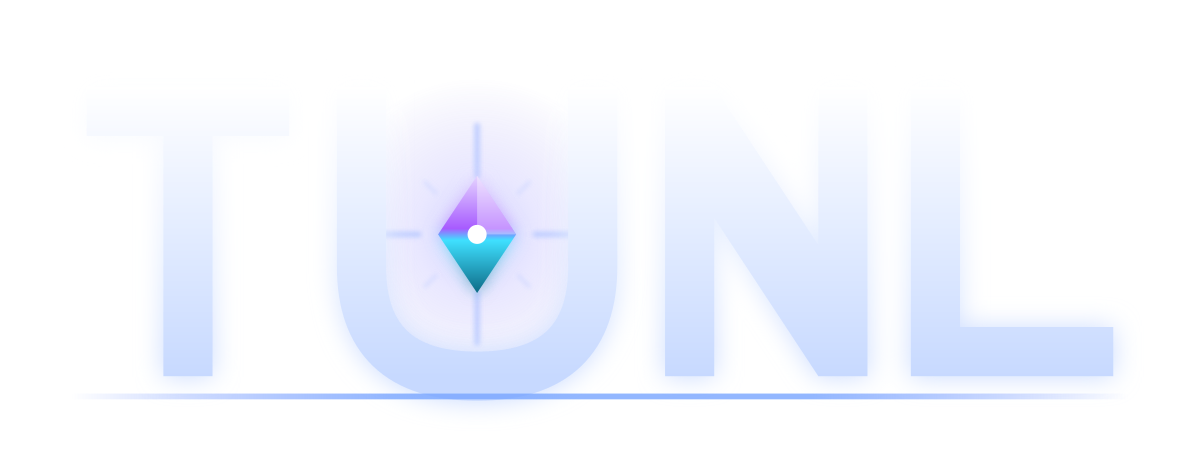
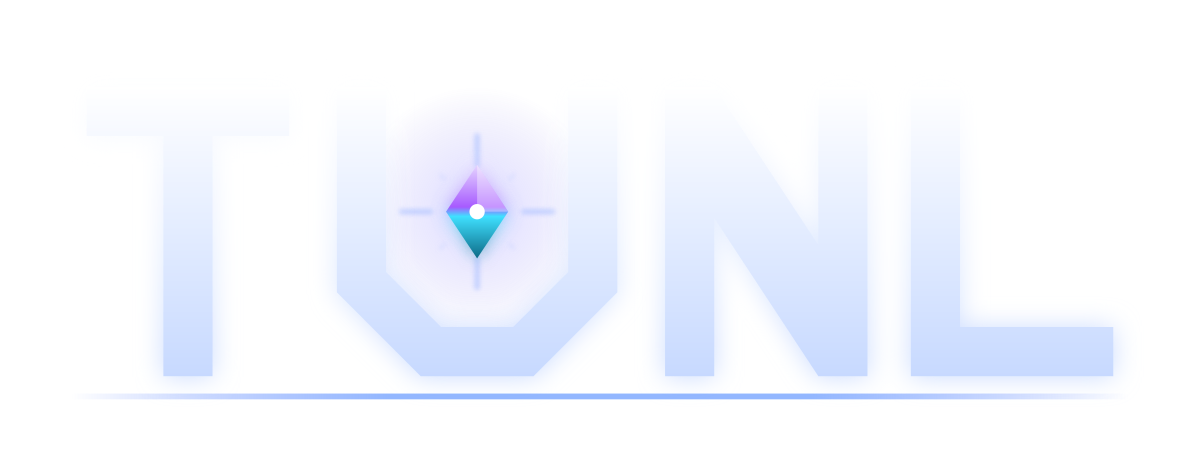
Wordmarks: the U rebuilt from the title screen's buildUPath(), gem at in-game size
wordmark.svg / wordmark-light.svg (site header, /play splash, press kit) had the round U whose
centreline sat on the baseline, so it hung half a stroke below T/N/L, and a gem with rays about
1.4x the game's. Now the chamfered channel on the baseline at T-stem weight and the game's gem,
unclipped. Copies in branding/web and flytunl-site/site plus the press PNGs regenerated.

Changed region(s): [[0.2775, 0.3629, 0.5242, 0.8769]]

diff --git a/branding/README.md b/branding/README.md
@@ -21,8 +21,9 @@ icon (violet circle) as its splash.
 **Play feature graphic (since 2026-10-06)** widens the Steigflug icon to 1024x500: violet
 ground, rays and halo, the AMBER F-14 in `ICON_POSE` climbing on the right, the TUNL wordmark
 on the left, the centre clear for Play's video play button. Its wordmark U follows the title
-screen's `buildUPath()` (chamfered channel on the baseline, gem at in-game size); the separate
-`wordmark*.svg` files still carry the older round U that hangs half a stroke below the baseline.
+screen's `buildUPath()` (chamfered channel on the baseline, gem at in-game size);
+`wordmark.svg` / `wordmark-light.svg` carry the same U since the same day (`wordmark-onwhite.svg`
+is the retired ring-portal U and is used nowhere).
 
 ## The ship block is rendered by the game - `render-ship-mark.mjs`
 
@@ -92,7 +93,7 @@ and unchanged by the icon direction; the two are meant to lock up together
 - `feature-graphic.svg` - 1024x500 Play Store feature graphic (Steigflug look, see
   above): ground, rays, halo and streaks hand-authored, ship block generated. The
   wordmark is inlined as vector with `fw_`-prefixed IDs; its U is the title screen's
-  `buildUPath()` geometry (not the round U of `wordmark.svg`).
+  `buildUPath()` geometry, like `wordmark.svg`.
 
 ## `game-center/` — App Store Connect Game Center art
 

diff --git a/docs/design-history.md b/docs/design-history.md
@@ -2403,4 +2403,5 @@ Same day: the Play feature graphic moved to the Steigflug look too (violet groun
 "nicht perfekt": the SVG U was a round-bottomed stroke with its centreline on the baseline, so it
 hung half a stroke below T/N/L, and its gem and rays were about 1.4x the game's, reading as a
 crosshair. Rebuilt from the title screen's `buildUPath()` (chamfered channel, outer edge on the
-baseline, stroke = the SVG font's T stem) and the game's gem sizes. `wordmark*.svg` keep the old U.
+baseline, stroke = the SVG font's T stem) and the game's gem sizes. `wordmark.svg` / `wordmark-light.svg`
+(site header, /play splash, press kit SVGs and PNGs) got the same U right after.
